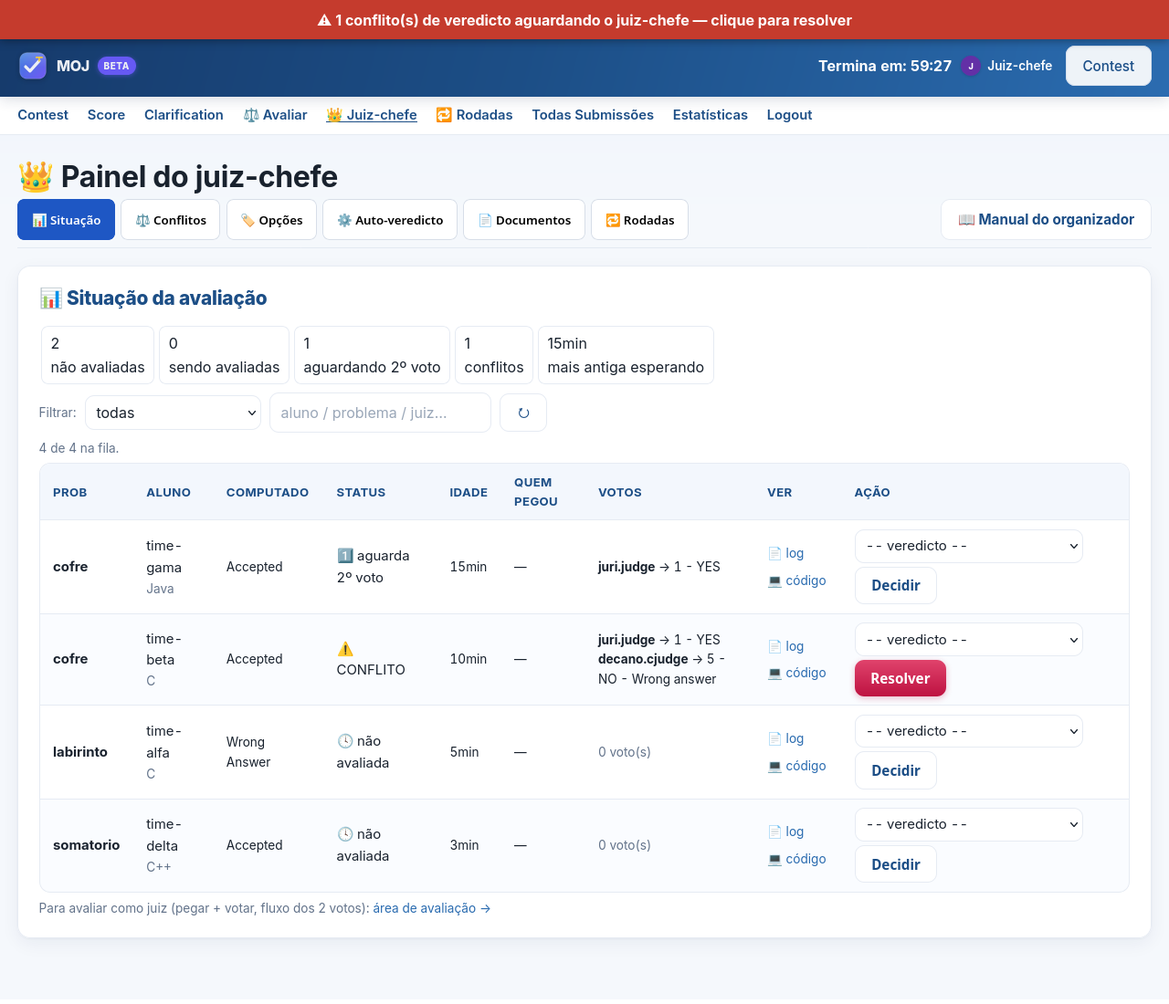
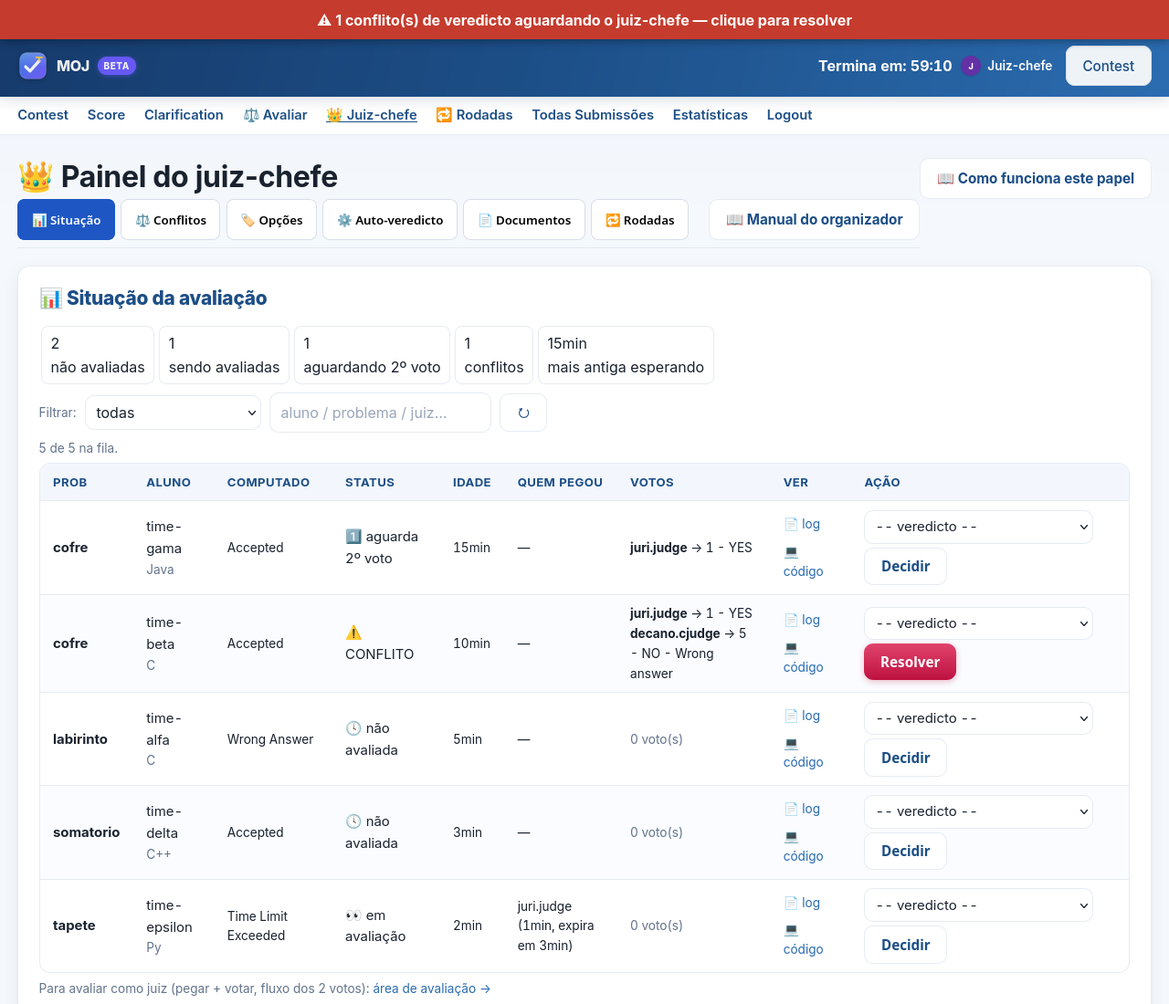
ajuda: as telas que faltavam — painel de avaliação, Todas Submissões, tarefa pega, PDFs, rodadas e cerimônia
Revisão do Ribas apontou quatro buracos, todos de 'mostrar a tela da hora
do aperto'. De quebra, montar essas telas expôs TRÊS erros de formato no
fixture de captura — que faziam os placares saírem desmontados:

- PROBS é tupla de CINCO campos (<source> <id> <nome> <letra> <chave>),
  não três: as letras dos problemas saíam erradas em toda parte;
- o placar é separado por ':' com header de marcadores (desc:asc:flag:
  username:...), não TAB: o placar renderizava tudo numa coluna só;
- FREEZE_TIME é EPOCH absoluto, não minutos.

Telas novas (10 → 16 imagens + 2 PDFs):
- judge-avaliando: o painel que abre ao 'Pegar p/ avaliar' (veredicto
  computado, log, código, voto, +5min, desistir);
- judge-todas × cjudge-todas: a MESMA tela, anônima p/ o juiz e completa
  p/ o chefe — o contraste é a lição, e vira seção nova nos dois tutoriais;
- staff-pega: close da tarefa reservada ('por sala.staff') ao lado de uma
  livre;
- pdf-impressao-p1 e pdf-balao: gerados pelas funções REAIS do lib/print.sh
  (pr_build_pdf/pr_build_balloon) e convertidos com pdftoppm — a folha de
  rosto e a folha do balão que saem na impressora, seção nova no .staff;
- rodadas e animeitor-cerimonia (com as células '?' que a revelação abre).

O shots-server ganhou ?click=<texto>&times=N p/ fotografar tela que só
existe depois de interagir.

diff --git a/web/contest/ajuda/staff.html b/web/contest/ajuda/staff.html
@@ -51,10 +51,11 @@
         <a href="#fila" data-en="3. The print queue">3. A fila de impressão</a>
         <a href="#tarefa" data-en="4. Handling a task">4. Tratando uma tarefa</a>
         <a href="#baloes" data-en="5. Balloons">5. Balões</a>
-        <a href="#auto" data-en="6. Automatic mode">6. Modo automático</a>
-        <a href="#telao" data-en="7. The big screen (read-only)">7. O telão (só leitura)</a>
-        <a href="#nao" data-en="8. What you cannot do">8. O que você não faz</a>
-        <a href="#resumo" data-en="9. Summary">9. Resumo</a>
+        <a href="#papel-impresso" data-en="6. What comes out of the printer">6. O que sai na impressora</a>
+        <a href="#auto" data-en="7. Automatic mode">7. Modo automático</a>
+        <a href="#telao" data-en="8. The big screen (read-only)">8. O telão (só leitura)</a>
+        <a href="#nao" data-en="9. What you cannot do">9. O que você não faz</a>
+        <a href="#resumo" data-en="10. Summary">10. Resumo</a>
       </nav>
 
       <article class="tmain">
@@ -126,6 +127,14 @@
           <li data-en-html="<b>Print it</b> — press <i>🖨 Imprimir</i>. MOJ builds a PDF with a <b>cover sheet</b> (team, university, login, task number, page count and a line to sign) followed by the document itself; source code comes out with numbered lines."><b>Imprima</b> — aperte <i>🖨 Imprimir</i>. O MOJ monta um PDF com uma <b>folha de rosto</b> (time, universidade, login, número da tarefa, nº de páginas e uma linha para assinar) seguida do documento; código-fonte sai com as linhas numeradas.</li>
           <li data-en-html="<b>Deliver it</b> — after handing the paper over, press <i>✅ Entregue</i>. That closes the task and is what tells the organizers the paper actually arrived."><b>Entregue</b> — depois de entregar o papel, aperte <i>✅ Entregue</i>. Isso fecha a tarefa e é o que diz à organização que o papel chegou de fato.</li>
         </ol>
+        <figure class="shot">
+          <img src="/contest/ajuda/img/staff-pega.png" alt="">
+          <figcaption data-en="Task #5 was taken by me: under the status it now says &quot;by sala.staff&quot;. Task #7, right below, is still free for anyone. That line is the only mark of the reservation — it is what stops two volunteers from printing the same thing.">
+            A tarefa #5 foi pega por mim: embaixo do status agora diz <b>por sala.staff</b>. A #7,
+            logo abaixo, continua livre para qualquer um. Essa linha é a única marca da reserva —
+            é o que impede dois voluntários de imprimirem a mesma coisa.
+          </figcaption>
+        </figure>
         <div class="tip" data-en="Prefer the button over the browser's own print: the generated PDF carries the cover sheet, and the buttons are what record who printed and when.">
           Prefira o botão à impressão do próprio navegador: o PDF gerado leva a folha de rosto, e
           são os botões que registram quem imprimiu e quando.
@@ -147,7 +156,45 @@
           <i>Accepted</i> — então o balão pode demorar alguns minutos mais que o placar.
         </div>
 
-        <h2 id="auto" data-en="6. Automatic mode">6. Modo automático</h2>
+        <h2 id="papel-impresso" data-en="6. What comes out of the printer">6. O que sai na impressora</h2>
+        <p data-en="Whatever the team sent, the printed job always starts with a COVER SHEET. It is what turns a loose sheet of paper into a deliverable: it says who it belongs to and it has a place to sign.">
+          Seja lá o que o time mandou, o trabalho impresso sempre começa por uma <b>folha de
+          rosto</b>. É ela que transforma um papel solto em algo entregável: diz de quem é e tem
+          onde assinar.
+        </p>
+        <figure class="shot">
+          <img src="/contest/ajuda/img/pdf-impressao-p1.png" alt="">
+          <figcaption data-en="Page 1 of a print request: team, university, login, the task number (the same # of the queue), how many pages come after, and the two lines to fill in on delivery.">
+            Página 1 de um pedido de impressão: time, universidade, login, o número da tarefa (o
+            mesmo <code>#</code> da fila), quantas páginas vêm depois, e as duas linhas para
+            preencher na entrega.
+          </figcaption>
+        </figure>
+        <p data-en-html="After the cover sheet comes the document itself. Source code is printed with <b>numbered lines</b> (easier to talk about with the team); images, PDFs and office files are converted as they are.">
+          Depois da folha de rosto vem o documento. Código-fonte sai com as <b>linhas
+          numeradas</b> (mais fácil de conversar com o time); imagens, PDFs e arquivos de
+          escritório são convertidos como estão.
+        </p>
+        <div class="warn" data-en-html="The task number on paper says &quot;check with the system&quot; for a reason: what closes the task is pressing <b>✅ Entregue</b> in the queue, not the signature on the sheet. The paper is the team's receipt; the queue is the organizers'.">
+          O número da tarefa no papel diz &quot;confira com o sistema&quot; por um motivo: o que
+          encerra a tarefa é apertar <b>✅ Entregue</b> na fila, não a assinatura na folha. O papel
+          é o comprovante do time; a fila é o da organização.
+        </div>
+
+        <h3 data-en="The balloon sheet">A folha do balão</h3>
+        <figure class="shot">
+          <img src="/contest/ajuda/img/pdf-balao.png" alt="">
+          <figcaption data-en="A balloon task prints a single page: the team, the problem letter, and the balloon drawn in its colour with the name written out. Take the sheet and the balloon together.">
+            Uma tarefa de balão imprime uma página só: o time, a letra do problema e o balão
+            desenhado na cor, com o nome por extenso. Leve a folha junto com o balão.
+          </figcaption>
+        </figure>
+        <div class="tip" data-en="The colour on paper is the same one the contest configured for that problem — if the drawing says red and the balloon in your hand is another colour, ask the organizers before delivering.">
+          A cor no papel é a mesma que a prova configurou para aquele problema — se o desenho diz
+          vermelho e o balão na sua mão é de outra cor, pergunte à organização antes de entregar.
+        </div>
+
+<h2 id="auto" data-en="7. Automatic mode">7. Modo automático</h2>
         <p data-en="The checkbox at the top of the page turns on automatic printing: every new task is taken, printed and marked as processed by itself. You are left with only the walking — take the paper to the desk and press delivered.">
           A caixinha no topo da página liga a impressão automática: cada tarefa nova é pega,
           impressa e marcada como processada sozinha. Sobra para você só a caminhada — levar o
@@ -159,7 +206,7 @@
           sistema.
         </div>
 
-        <h2 id="telao" data-en="7. The big screen (read-only)">7. O telão (só leitura)</h2>
+        <h2 id="telao" data-en="8. The big screen (read-only)">8. O telão (só leitura)</h2>
         <figure class="shot">
           <img src="/contest/ajuda/img/staff-telao.png" alt="">
           <figcaption data-en="The same big-screen desk the Animeitor operator uses, but with every write button removed — the room team looks and listens, nothing else.">
@@ -177,7 +224,22 @@
           avisar o chefe de sede quem está faltando.
         </div>
 
-        <h2 id="nao" data-en="8. What you cannot do">8. O que você não faz</h2>
+        <h3 data-en="Rounds: the warm-up and the real thing">Rodadas: o aquecimento e a prova</h3>
+        <figure class="shot">
+          <img src="/contest/ajuda/img/rodadas.png" alt="">
+          <figcaption data-en="A contest can have more than one round in the same address: the warm-up, already archived, and the official round on the air. The archived one keeps its own scoreboard and submissions.">
+            Uma prova pode ter mais de uma rodada no mesmo endereço: o aquecimento, já arquivado, e
+            a prova oficial no ar. A arquivada guarda o placar e as submissões dela.
+          </figcaption>
+        </figure>
+        <p data-en-html="This matters to you on the day: when the organizers promote the warm-up to the official round, the queue is <b>zeroed</b> — task numbering starts over and the balloons of the warm-up are gone. If a paper from the warm-up is still on the counter, deliver it before the promotion.">
+          Isso importa para você no dia: quando a organização promove o aquecimento para a prova
+          oficial, a fila é <b>zerada</b> — a numeração das tarefas recomeça e os balões do
+          aquecimento somem. Se ainda houver papel do aquecimento no balcão, entregue antes da
+          promoção.
+        </p>
+
+        <h2 id="nao" data-en="9. What you cannot do">9. O que você não faz</h2>
         <div class="no" data-en="These are refused by the server itself, not just hidden in the interface. If you try through the URL, you get an error.">
           Estas coisas são recusadas pelo próprio servidor, não apenas escondidas na interface.
           Se tentar pela URL, recebe erro.
@@ -195,7 +257,7 @@
           <tr><td data-en="See tasks or labels of ANOTHER site">Ver tarefas ou etiquetas de OUTRA sede</td><td><code>403</code></td></tr>
         </table>
 
-        <h2 id="resumo" data-en="9. Summary">9. Resumo</h2>
+        <h2 id="resumo" data-en="10. Summary">10. Resumo</h2>
         <table class="cheat">
           <tr><th data-en="You do">Você faz</th><th data-en="You do not">Você não faz</th></tr>
           <tr>

diff --git a/web/contest/ajuda/judge.html b/web/contest/ajuda/judge.html
@@ -52,10 +52,11 @@
         <a href="#fila" data-en="3. The evaluation queue">3. A fila de avaliação</a>
         <a href="#avaliar" data-en="4. Evaluating, step by step">4. Avaliando, passo a passo</a>
         <a href="#dois" data-en="5. Two judges must agree">5. Dois juízes têm de concordar</a>
-        <a href="#cego" data-en="6. Why you judge blind">6. Por que você julga às cegas</a>
-        <a href="#clar" data-en="7. Clarifications">7. Clarifications</a>
-        <a href="#auto" data-en="8. When there is no queue">8. Quando não há fila</a>
-        <a href="#nao" data-en="9. What you cannot do">9. O que você não faz</a>
+        <a href="#todas" data-en="6. All submissions">6. Todas Submissões</a>
+        <a href="#cego" data-en="7. Why you judge blind">7. Por que você julga às cegas</a>
+        <a href="#clar" data-en="8. Clarifications">8. Clarifications</a>
+        <a href="#auto" data-en="9. When there is no queue">9. Quando não há fila</a>
+        <a href="#nao" data-en="10. What you cannot do">10. O que você não faz</a>
       </nav>
 
       <article class="tmain">
@@ -116,6 +117,20 @@
           <li data-en-html="<b>Look</b> — the panel opens with the computed verdict, the <i>log</i> (what the machine did, test by test) and the <i>código</i> (the source the team sent)."><b>Olhe</b> — o painel abre com o veredicto computado, o <i>log</i> (o que a máquina fez, teste a teste) e o <i>código</i> (a fonte que o time mandou).</li>
           <li data-en-html="<b>Vote</b> — choose the verdict in the list and confirm. Your vote is <b>final</b>: there is no undo."><b>Vote</b> — escolha o veredicto na lista e confirme. O seu voto é <b>definitivo</b>: não há desfazer.</li>
         </ol>
+        <figure class="shot">
+          <img src="/contest/ajuda/img/judge-avaliando.png" alt="">
+          <figcaption data-en="This is the screen right after &quot;Take to evaluate&quot;: the queue gives way to the evaluation panel — computed verdict for reference, links to the log and the source, the verdict list, and the clock of your reservation.">
+            É esta a tela logo depois de <i>Pegar p/ avaliar</i>: a fila dá lugar ao painel de
+            avaliação — veredicto computado como referência, links para o log e o código, a lista
+            de veredictos e o relógio da sua reserva.
+          </figcaption>
+        </figure>
+        <p data-en-html="Note the counters stay on top: while you work, you still see how the queue is doing. The <b>log</b> shows what the machine did test by test; the <b>código</b> is the source the team sent. Those two links are always available to a judge, no matter what the contest shows to competitors.">
+          Repare que os contadores continuam no topo: enquanto você trabalha, ainda vê como a fila
+          está. O <b>log</b> mostra o que a máquina fez teste a teste; o <b>código</b> é a fonte
+          que o time mandou. Esses dois links estão sempre disponíveis a um juiz, independente do
+          que a prova mostra aos competidores.
+        </p>
         <div class="tip" data-en="Two buttons help with the clock: +5 min extends your reservation if the case is hard, and Desistir hands it back to the queue for another judge. While you have a submission open, the page stops reloading by itself — it will not pull the case from under you.">
           Dois botões ajudam com o relógio: <b>+5 min</b> estende a sua reserva se o caso é difícil,
           e <b>Desistir</b> devolve à fila para outro juiz. Enquanto você tem uma submissão aberta,
@@ -141,7 +156,32 @@
           É por isso que a fila anda mais rápido com mais juízes online.
         </div>
 
-        <h2 id="cego" data-en="6. Why you judge blind">6. Por que você julga às cegas</h2>
+        <h2 id="todas" data-en="6. All submissions">6. Todas Submissões</h2>
+        <figure class="shot">
+          <img src="/contest/ajuda/img/judge-todas.png" alt="">
+          <figcaption data-en="Every submission of the contest, as a judge sees it: time, problem, verdict, and the links to the file and the log. There is no user column — and that is deliberate.">
+            Todas as submissões da prova, como um juiz as vê: horário, problema, veredicto e os
+            links para o arquivo e o log. Não há coluna de usuário — e isso é deliberado.
+          </figcaption>
+        </figure>
+        <p data-en-html="This is the panoramic view of the contest: useful for spotting a problem nobody is solving, a wave of <i>Compilation Error</i> in the first minutes, or a language behaving oddly. The filters at the top cut by problem and by verdict.">
+          É a visão panorâmica da prova: serve para perceber um problema que ninguém resolve, uma
+          onda de <i>Compilation Error</i> nos primeiros minutos, ou uma linguagem se comportando
+          de forma estranha. Os filtros do topo recortam por problema e por veredicto.
+        </p>
+        <div class="tip" data-en-html="For a judge the list comes <b>anonymous</b> and sorted by time — the user and team columns simply do not exist, and the &quot;by user&quot; grouping is gone. The chronological order is part of the protection: grouped by team, the mere sequence would give away who is who.">
+          Para o juiz a lista vem <b>anônima</b> e ordenada por horário — as colunas de usuário e
+          equipe simplesmente não existem, e o agrupamento &quot;por usuário&quot; some. A ordem
+          cronológica faz parte da proteção: agrupada por time, a mera sequência entregaria quem é
+          quem.
+        </div>
+        <p data-en-html="The <b>ver</b> and <b>⬇</b> links open the source, and the last column opens the judging log. A judge always has access to both — this is the screen for investigating &quot;what happened in that submission&quot; outside the evaluation queue.">
+          Os links <b>ver</b> e <b>⬇</b> abrem o código, e a última coluna abre o log do
+          julgamento. O juiz sempre tem acesso aos dois — esta é a tela para investigar &quot;o que
+          aconteceu naquela submissão&quot; fora da fila de avaliação.
+        </p>
+
+<h2 id="cego" data-en="7. Why you judge blind">7. Por que você julga às cegas</h2>
         <p data-en="Three deliberate blindfolds protect the fairness of the contest — and you:">
           Três vendas deliberadas protegem a lisura da prova — e você:
         </p>
@@ -155,7 +195,7 @@
           nem o juiz, vê quem fez uma pergunta na clarification.
         </div>
 
-        <h2 id="clar" data-en="7. Clarifications">7. Clarifications</h2>
+        <h2 id="clar" data-en="8. Clarifications">8. Clarifications</h2>
         <p data-en="Questions from the teams arrive anonymous. Before answering, RESERVE the question — that is what stops two judges from answering the same thing differently. Then write the answer and decide whether it is private (only the asker) or public (everyone sees it).">
           As perguntas dos times chegam anônimas. Antes de responder, <b>reserve</b> a pergunta —
           é o que impede dois juízes de responderem a mesma coisa de formas diferentes. Depois
@@ -167,7 +207,7 @@
           Leia duas vezes antes de enviar.
         </div>
 
-        <h2 id="auto" data-en="8. When there is no queue">8. Quando não há fila</h2>
+        <h2 id="auto" data-en="9. When there is no queue">9. Quando não há fila</h2>
         <p data-en="Not every contest uses manual verdict. If the organizer left the correction automatic, your Evaluate page says so and there is nothing to judge — the machine's verdict goes straight to the team. Your role is then to watch the submissions, answer clarifications and help with the problems.">
           Nem toda prova usa veredicto manual. Se o organizador deixou a correção automática, a sua
           página <i>Avaliar</i> diz isso e não há o que julgar — o veredicto da máquina vai direto
@@ -175,7 +215,7 @@
           ajudar nos problemas.
         </p>
 
-        <h2 id="nao" data-en="9. What you cannot do">9. O que você não faz</h2>
+        <h2 id="nao" data-en="10. What you cannot do">10. O que você não faz</h2>
         <table class="cheat">
           <tr><th data-en="Attempt">Tentativa</th><th data-en="Answer">Resposta</th></tr>
           <tr><td data-en="Resolve a conflict / override a verdict">Resolver conflito / contrariar um veredicto fechado</td><td><code>403</code> — <span data-en="chief judge only">só o juiz-chefe</span></td></tr>

diff --git a/web/contest/ajuda/cjudge.html b/web/contest/ajuda/cjudge.html
@@ -140,12 +140,33 @@
         <table class="cheat">
           <tr><th data-en="Power">Poder</th><th data-en="What it is for">Para que serve</th></tr>
           <tr><td data-en="See the names">Ver os nomes</td><td data-en="In the queue and in All submissions you see who submitted — the judges do not.">Na fila e em Todas Submissões você vê quem submeteu — os juízes não.</td></tr>
+          <tr><td data-en="Rejudge in bulk">Rejulgar em lote</td><td data-en="The checkboxes in All submissions are yours only — pick several and re-run them.">Os checkboxes de Todas Submissões são só seus — marque várias e mande rodar de novo.</td></tr>
           <tr><td data-en="Rejudge">Rejulgar</td><td data-en="Re-run submissions after fixing a test or a checker.">Rodar de novo as submissões depois de corrigir um teste ou um corretor.</td></tr>
           <tr><td data-en="Edit answers and news">Editar respostas e notícias</td><td data-en="Fix a clarification already answered, or a news item already sent.">Corrigir uma clarification já respondida, ou uma notícia já enviada.</td></tr>
           <tr><td data-en="Documents">Documentos</td><td data-en="Generate and publish the contest documents — including the ones not published yet, which judges cannot see.">Gerar e publicar os documentos da prova — inclusive os não publicados, que os juízes não veem.</td></tr>
           <tr><td data-en="Pre-flight checklist">Checklist pré-prova</td><td data-en="The list of checks before the contest starts.">A lista de conferências antes de a prova começar.</td></tr>
           <tr><td data-en="Machines">Máquinas</td><td data-en="Which team is on which machine — useful when a room misbehaves.">Que time está em que máquina — útil quando uma sala dá problema.</td></tr>
         </table>
+
+        <h3 data-en="All submissions, with names">Todas Submissões, com nomes</h3>
+        <figure class="shot">
+          <img src="/contest/ajuda/img/cjudge-todas.png" alt="">
+          <figcaption data-en="The same address the judges open, but for you it comes complete: user and team columns, the search by user, the grouping by user and the checkboxes that let you rejudge in bulk.">
+            O mesmo endereço que os juízes abrem, mas para você ele vem completo: colunas de
+            usuário e equipe, a busca por usuário, o agrupamento por usuário e os checkboxes que
+            permitem rejulgar em lote.
+          </figcaption>
+        </figure>
+        <p data-en-html="Compare with the <a href='/contest/ajuda/judge.html#todas'>judge's version</a>: it is the same screen and the same endpoint — what changes is the role of who asks. That is the rule of the house: the cut is made by the server, never by hiding a column in the browser.">
+          Compare com a <a href="/contest/ajuda/judge.html#todas">versão do juiz</a>: é a mesma
+          tela e o mesmo endereço — o que muda é o papel de quem pede. É a regra da casa: o corte
+          é feito pelo servidor, nunca escondendo uma coluna no navegador.
+        </p>
+        <div class="tip" data-en="Rejudging is the tool for when a test was wrong or a checker was fixed: mark the affected submissions and send them back to the judges. The verdicts are recomputed and the scoreboard follows.">
+          Rejulgar é a ferramenta para quando um teste estava errado ou um corretor foi consertado:
+          marque as submissões afetadas e mande de volta para as máquinas. Os veredictos são
+          recomputados e o placar acompanha.
+        </div>
 
         <h2 id="nao" data-en="8. What you are NOT">8. O que você NÃO é</h2>
         <div class="no" data-en="The chief judge is not a full administrator. These stay with the admin account, and asking for them mid-contest is a sign that the admin should be in the room:">

diff --git a/web/contest/ajuda/animeitor.html b/web/contest/ajuda/animeitor.html
@@ -157,6 +157,19 @@
           conta tem de ficar com quem opera a tela. A página 🏆 <b>Revelação</b> está sempre
           disponível para você, então dá para ensaiar a cerimônia antes de a plateia chegar.
         </p>
+        <figure class="shot">
+          <img src="/contest/ajuda/img/animeitor-cerimonia.png" alt="">
+          <figcaption data-en="The ceremony: the ? cells in amber are what the freeze hid. Each step opens one of them, from the bottom of the table up, and the team climbs to its real position — that is the moment the audience is there for.">
+            A cerimônia: as células <b>?</b> em âmbar são o que o congelamento escondeu. Cada passo
+            abre uma delas, de baixo para cima na tabela, e o time sobe para a posição real — é o
+            momento pelo qual a plateia veio.
+          </figcaption>
+        </figure>
+        <div class="tip" data-en-html="The counter next to the buttons says how many cells are still to open. <b>Space</b> or <b>→</b> advance one step; <b>▶ Auto</b> runs by itself, about one step per second and a half — good for the long tail at the bottom of the table, while you narrate the top by hand.">
+          O contador ao lado dos botões diz quantas células ainda faltam abrir. <b>Espaço</b> ou
+          <b>→</b> avançam um passo; <b>▶ Auto</b> anda sozinho, cerca de um passo por segundo e
+          meio — bom para a cauda longa do fim da tabela, enquanto você narra o topo na mão.
+        </div>
 
         <h2 id="vespera" data-en="8. Checklist before the show">8. Checklist da véspera</h2>
         <ol>

diff --git a/web/contest/ajuda/cstaff.html b/web/contest/ajuda/cstaff.html
@@ -179,6 +179,14 @@
           delas teve prorrogação, a cerimônia espera por ela) e aí mostra a cerimônia recortada
           nos seus times: o placar congelado mais as células pendentes, abertas uma a uma.
         </p>
+        <figure class="shot">
+          <img src="/contest/ajuda/img/animeitor-cerimonia.png" alt="">
+          <figcaption data-en="The ceremony before the first step: the cells marked with ? in amber are exactly what was hidden by the freeze — they open one at a time, from the bottom of the table up, with the space bar or the Auto button.">
+            A cerimônia antes do primeiro passo: as células marcadas com <b>?</b> em âmbar são
+            exatamente o que o congelamento escondeu — elas abrem uma a uma, de baixo para cima na
+            tabela, com a barra de espaço ou o botão <i>Auto</i>.
+          </figcaption>
+        </figure>
         <div class="tip" data-en="If you need the full scoreboard before that (a rehearsal, for instance), ask the administrator: there is a setting that releases it for specific logins.">
           Se precisar do placar completo antes disso (um ensaio, por exemplo), peça ao
           administrador: existe uma configuração que libera para logins específicos.

diff --git a/server/bin/shots-server.py b/server/bin/shots-server.py
@@ -159,6 +159,18 @@ class H(BaseHTTPRequestHandler):
             inject = (f'<script>window.__SHOT_TOKEN={sess!r};</script>'
                       f'<img src="/__delay" alt="" style="position:fixed;left:-9px;top:-9px;'
                       f'width:1px;height:1px;opacity:0">')
+            # ?click=<seletor>&times=N : aperta um botão N vezes antes da foto. É como se
+            # fotografa uma tela que só existe DEPOIS de interagir — a cerimônia de revelação
+            # começa parada, e o que interessa no tutorial é ela no meio do caminho.
+            q = urllib.parse.parse_qs(qs)
+            click = (q.get("click") or [""])[0]
+            if click:
+                n = int((q.get("times") or ["1"])[0])
+                inject += (
+                    '<script>addEventListener("load",()=>{let i=0;const t=setInterval(()=>{'
+                    'const b=[...document.querySelectorAll("button,.btn")]'
+                    f'.find(e=>(e.textContent||"").includes({click!r}));'
+                    f'if(b)b.click(); if(++i>={n})clearInterval(t);}},220);}});</script>')
             txt = txt.replace("</body>", inject + "</body>", 1)
             data = txt.encode("utf-8")
             if sess:
